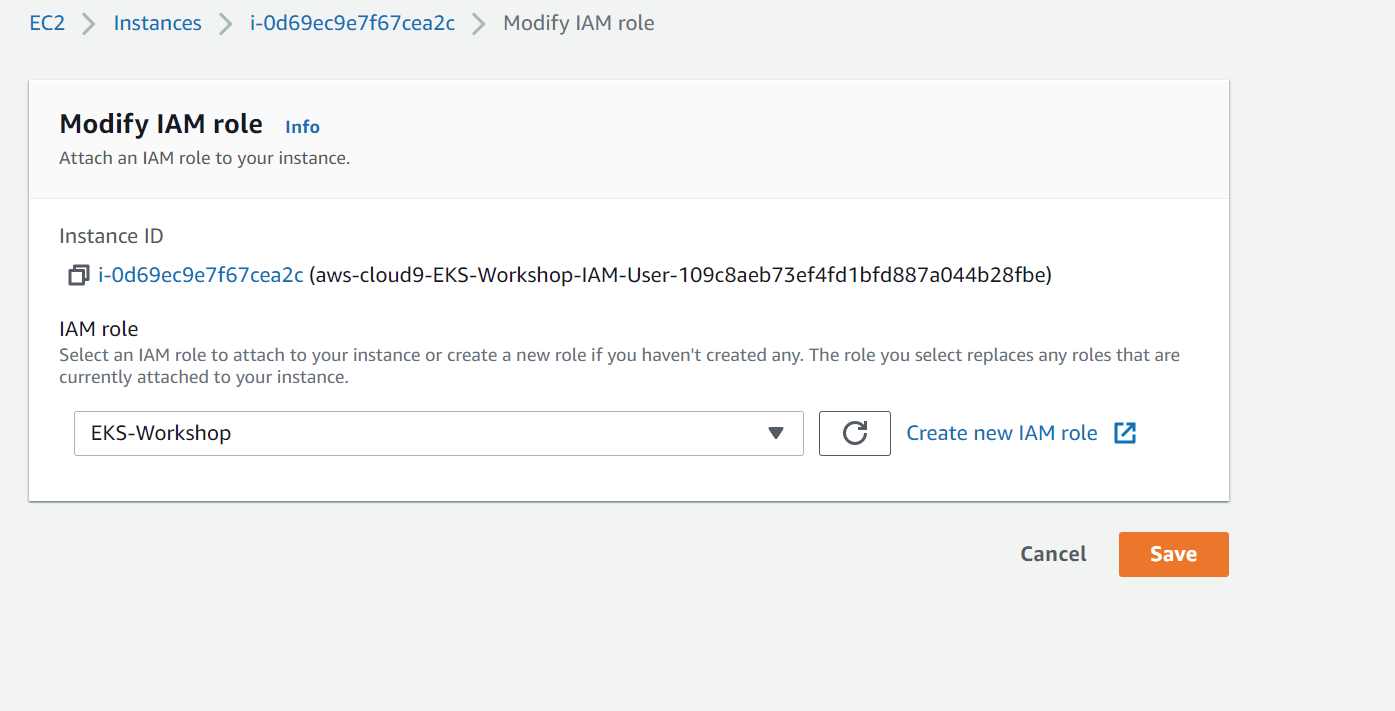
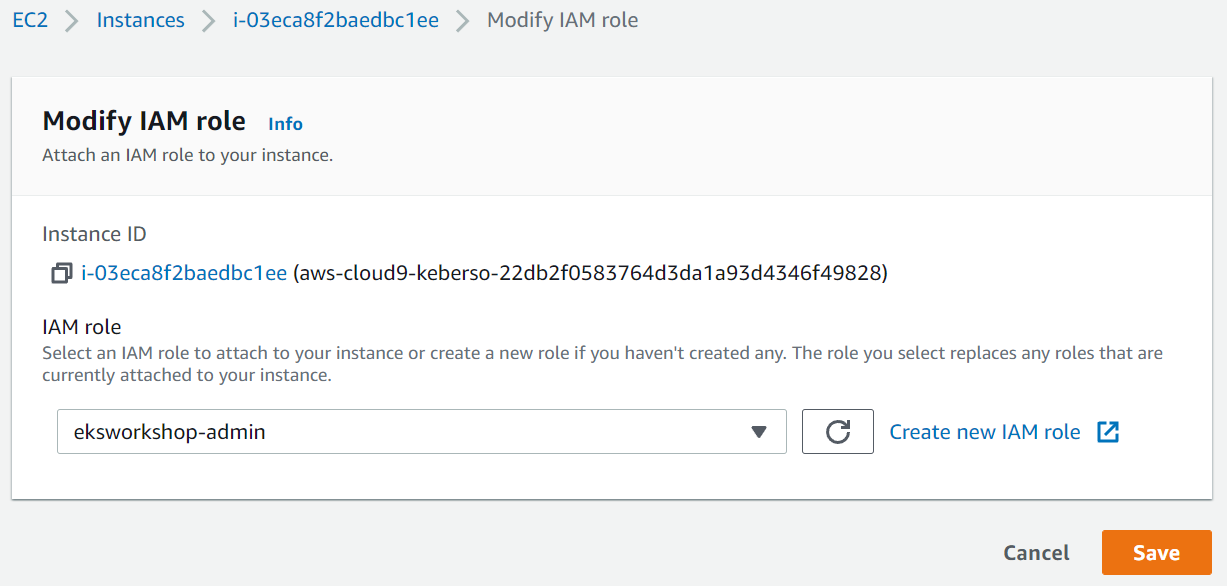
updatescript

diff --git a/0-setup/README.md b/0-setup/README.md
@@ -80,6 +80,6 @@ This lab prepares your workspace to interact with AWS EKS by installing the requ
 
     Click Actions -> Security -> Modify IAM Role ![role-4](./images/role-4.png)
 
-    Attach EKS-Workshop IAM Role to Instance ![role-5](./images/role-5.png)
+    Attach eksworkshop-admin role created previously to Instance and select "Save" ![role-5](./images/role-5.png)
 
 9. Return to Cloud9 Workspace in the AWS Console.
